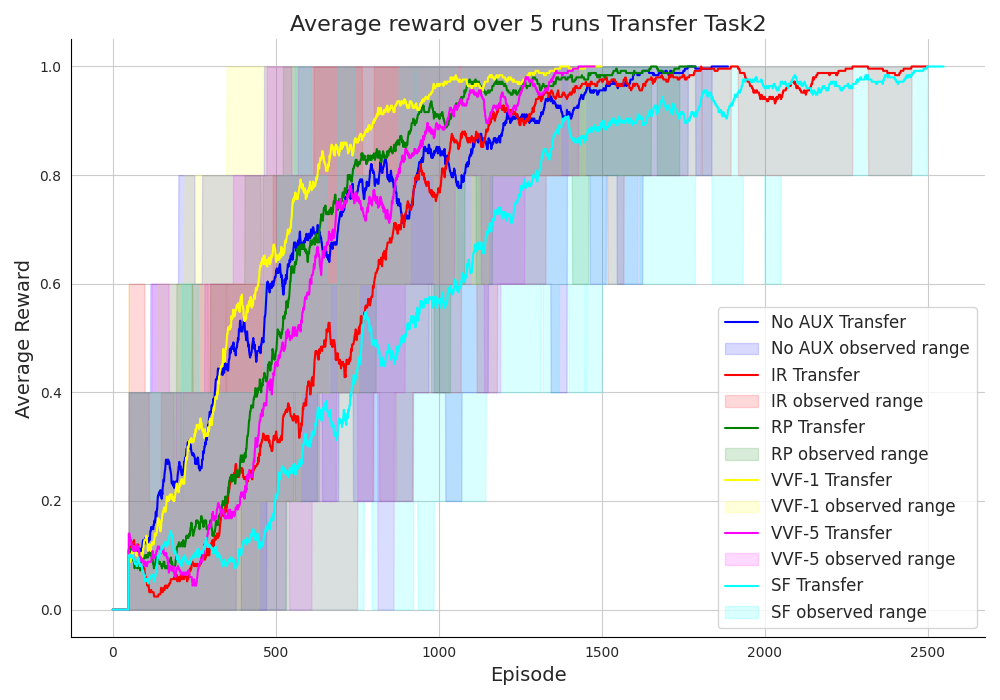
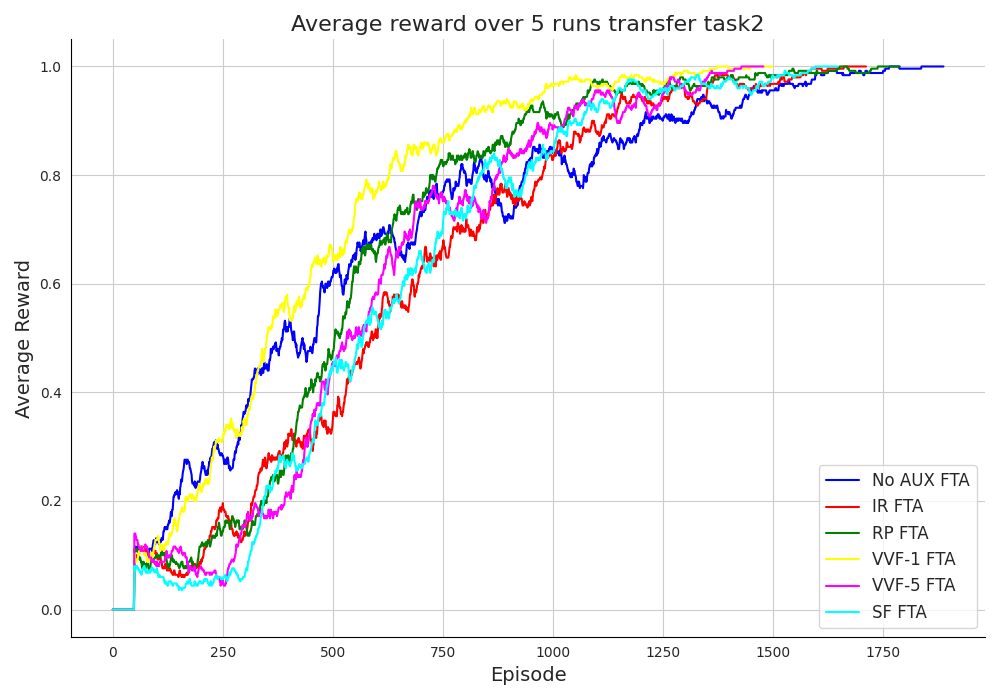
add fixed figures

diff --git a/plot_rewards.py b/plot_rewards.py
@@ -11,15 +11,23 @@ sns.set_style("whitegrid", {'axes.grid' : True,
 fig = plt.figure(figsize=(10, 7))
 
 MAX_RANGE=4000
-SAVE_NAME='figures/relu-fta-comparison.png'
+SAVE_NAME='figures/task2_transfer.png'
+PLOT_REGION=False
+TITLE='Average reward over 5 runs transfer task2'
+COLORS=2
+PATH1='.transfer_rewards/task2'
+PATH2='.rewards/task2'
 
-aux_paths = ['.rewards/train/fta/', '.rewards/train/relu/']
-labels = ['FTA', 'ReLU']
+aux_paths = [PATH1+'/', PATH2+'/']
+labels = ['', 'Scratch']
 
 plt.clf()
 
-# colors=['blue', 'red', 'green', 'yellow', 'magenta', 'cyan', 'skyblue', 'tomato', 'lime', 'khaki', 'orchid', 'teal']
-colors=['blue', 'slateblue', 'darkviolet', 'mediumblue', 'dodgerblue', 'skyblue', 'red', 'tomato', 'orange', 'coral', 'brown', 'chocolate']
+if COLORS==1:
+    colors=['blue', 'red', 'green', 'yellow', 'magenta', 'cyan', 'skyblue', 'tomato', 'lime', 'khaki', 'orchid', 'teal']
+else:
+    colors=['blue', 'slateblue', 'darkviolet', 'mediumblue', 'dodgerblue', 'skyblue', 'red', 'tomato', 'orange', 'coral', 'brown', 'chocolate']
+
 
 for j, aux_path in enumerate(aux_paths):
     for index, path in enumerate(['no_aux', 'ir', 'rp', 'vvf1', 'vvf5', 'sf']):
@@ -77,13 +85,14 @@ for j, aux_path in enumerate(aux_paths):
         c = sns.lineplot(maxs.numpy(), alpha=0.0)
         line = c.get_lines()
         # if not (path == 'sf' or path=='ir'):
-        # plt.fill_between(line[j*18+index*3+0].get_xdata(), line[j*18+index*3+1].get_ydata(), line[j*18+index*3+2].get_ydata(), color=colors[j*6+index], alpha=.15, label=name+' observed range')
+        if PLOT_REGION:
+            plt.fill_between(line[j*18+index*3+0].get_xdata(), line[j*18+index*3+1].get_ydata(), line[j*18+index*3+2].get_ydata(), color=colors[j*6+index], alpha=.15, label=name+' observed range')
 
 
 plt.xlabel('Episode', fontsize=14)
 plt.ylabel('Average Reward', fontsize=14)
 
-plt.title("ReLU and FTA", fontsize=16)
+plt.title(TITLE, fontsize=16)
 
 plt.legend(
 frameon=True, fancybox=True, loc="best", prop={'size': 12})
